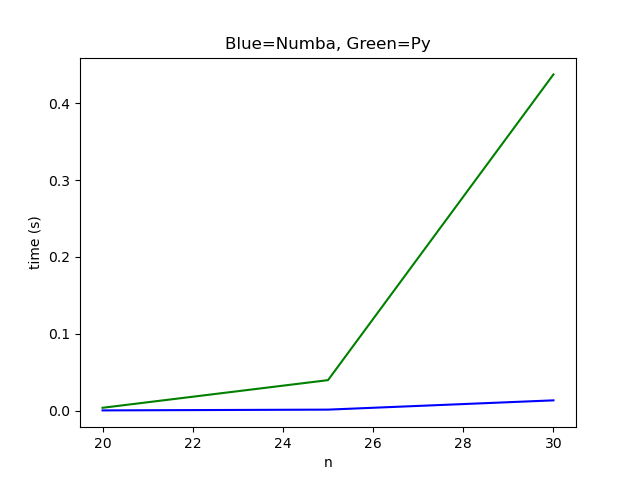
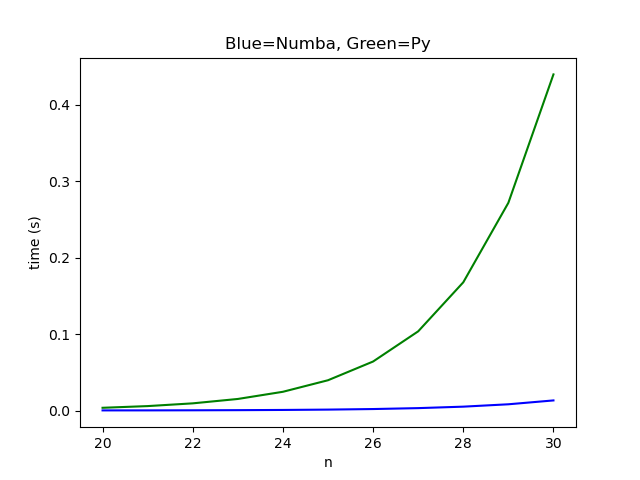
Presentation plots

diff --git a/MA4_Files/MA4_2.py b/MA4_Files/MA4_2.py
@@ -18,7 +18,7 @@ def fib_numba(n):
 		return fib_numba(n-1) + fib_numba(n-2)
 
 def main():
-	n = [30, 35, 40, 43]
+	n = [30, 31, 32, 33, 34, 35, 36, 37, 38, 39, 40, 41, 42, 43, 44, 45]
 	timeCPP = []
 	timeNJIT = []
 	timePy = []
@@ -41,7 +41,7 @@ def main():
 		print(3)
 		print(str(x) + ' is done')
 
-	nn = [20, 25, 30]
+	nn = [20, 21, 22, 23, 24, 25, 26, 27, 28, 29, 30]
 	timeNJIT2 = []
 	timePy2 = []
 	for x in nn:
@@ -56,15 +56,10 @@ def main():
 		timePy2 += [(end-start)]
 
 	f = Person(47)
-	start = pc()
-	f.fib()
-	end = pc()
-	t47cpp = (end - start)
+	print(f.fib())
 
-	start = pc()
 	t = fib_numba(47)
-	end = pc()
-	t47numba = (end - start)
+	print(t)
 
 	plt.figure(1)
 	plt.plot(n, timeCPP, color='red')
